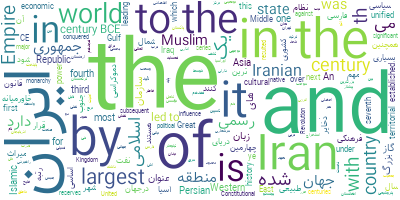
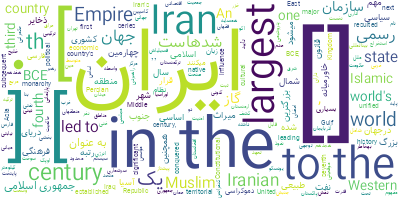
Update dependencies for getting compatible with python 3.9.x

diff --git a/setup.py b/setup.py
@@ -8,7 +8,7 @@ with open(path.join(this_directory, 'README.md'), encoding='utf-8') as f:
 setup(
     name='wordcloud_fa',
     packages=['wordcloud_fa'],
-    version='0.1.8',
+    version='0.1.9',
     license='MIT',
     description='A wrapper for wordcloud module for creating persian (and other rtl languages) word cloud.',
     long_description=long_description,
@@ -16,17 +16,17 @@ setup(
     author='Mohammadreza Alihoseiny',
     author_email='salam@alihoseiny.ir',
     url='https://github.com/alihoseiny/word_cloud_fa',
-    download_url='https://github.com/alihoseiny/word_cloud_fa/archive/V0.1.8.tar.gz',
+    download_url='https://github.com/alihoseiny/word_cloud_fa/archive/V0.1.9.tar.gz',
     keywords=['wordcloud', 'word cloud', 'Farsi', 'persian', 'Iran', 'nlp', 'National Language Processing',
               'text processing', 'data visualization'],
     install_requires=[
         'numpy>=1.18.1',
         'pillow>=7.0.0',
         'matplotlib>=3.1.2',
-        'arabic_reshaper',
-        'python-bidi>=0.4.2',
-        'wordcloud==1.7.0',
-        'hazm'
+        'arabic_reshaper>=2.1.3',
+        'python-bidi==0.4.2',
+        'wordcloud==1.8.1',
+        'hazm',
     ],
     package_data={'wordcloud_fa': ['stopwords', 'Fonts/font.ttf']},
 )

diff --git a/CHANGELOG.md b/CHANGELOG.md
@@ -1,3 +1,5 @@
+# 0.1.9
+- Support for python 3.9.x added.
 # 0.1.6
 - Adding symbols to the stopwords file.
 - Adding `no_reshape` parameter for disabling reshaping words.
